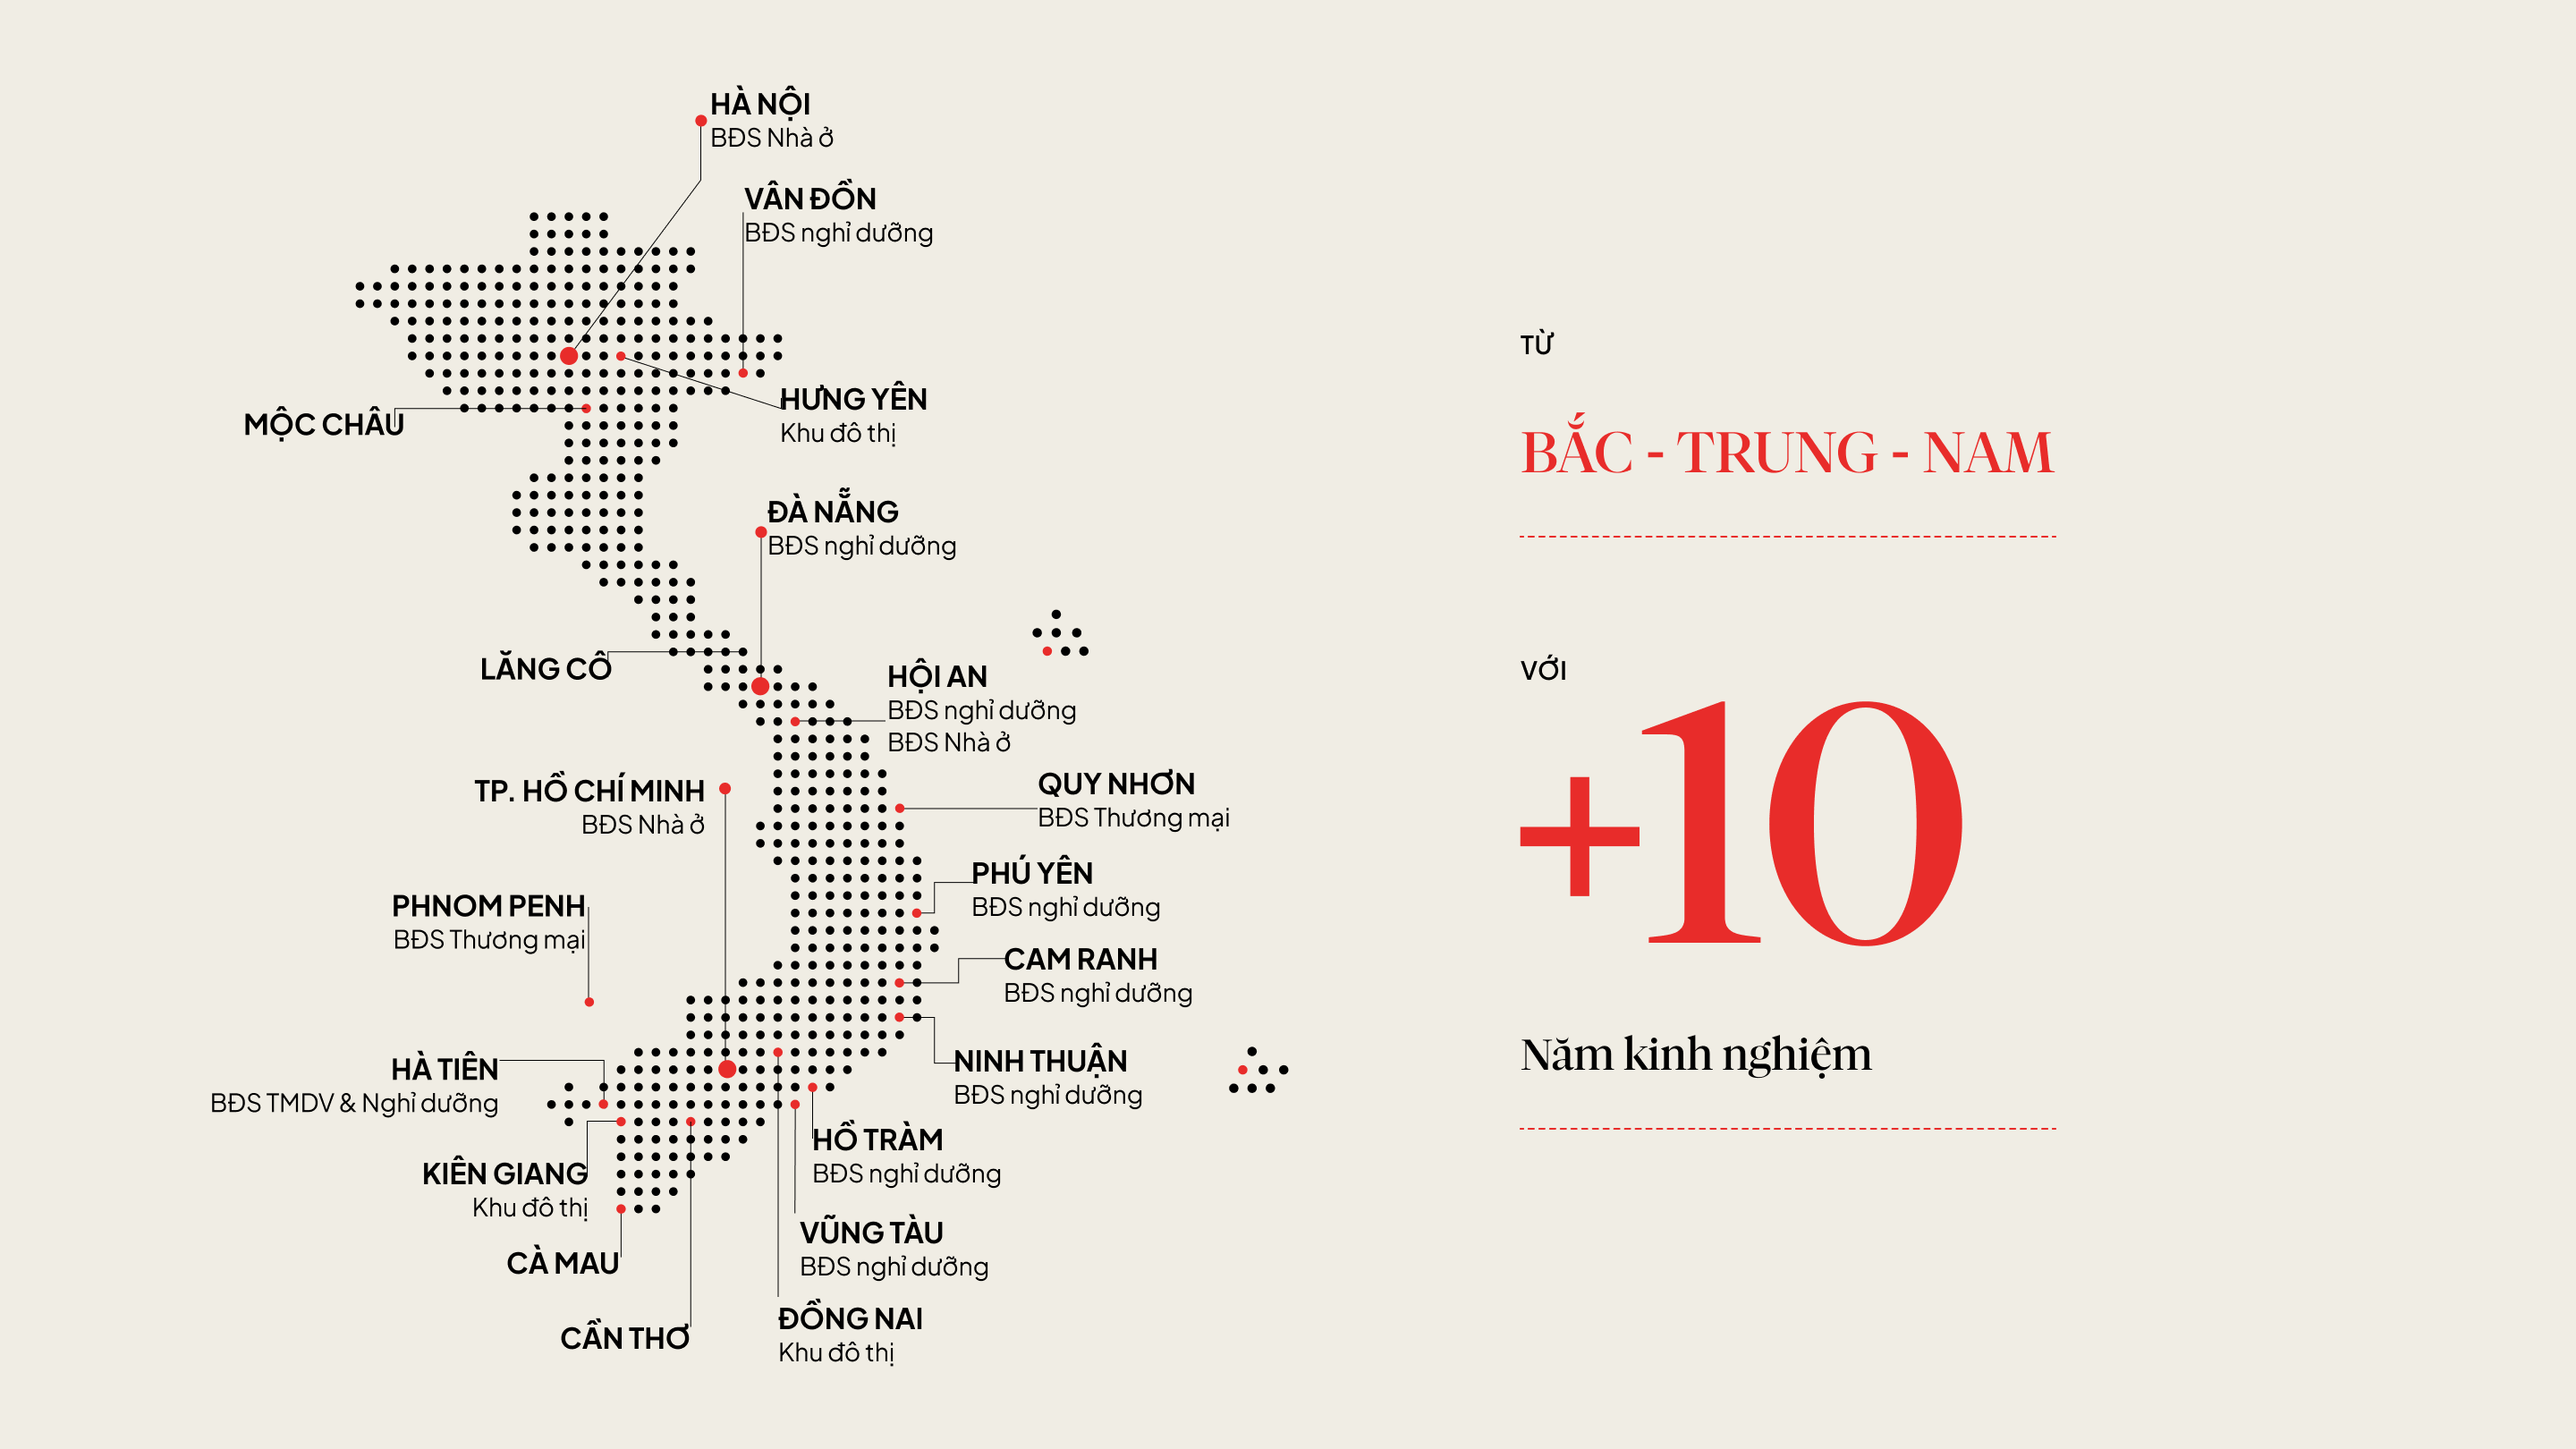
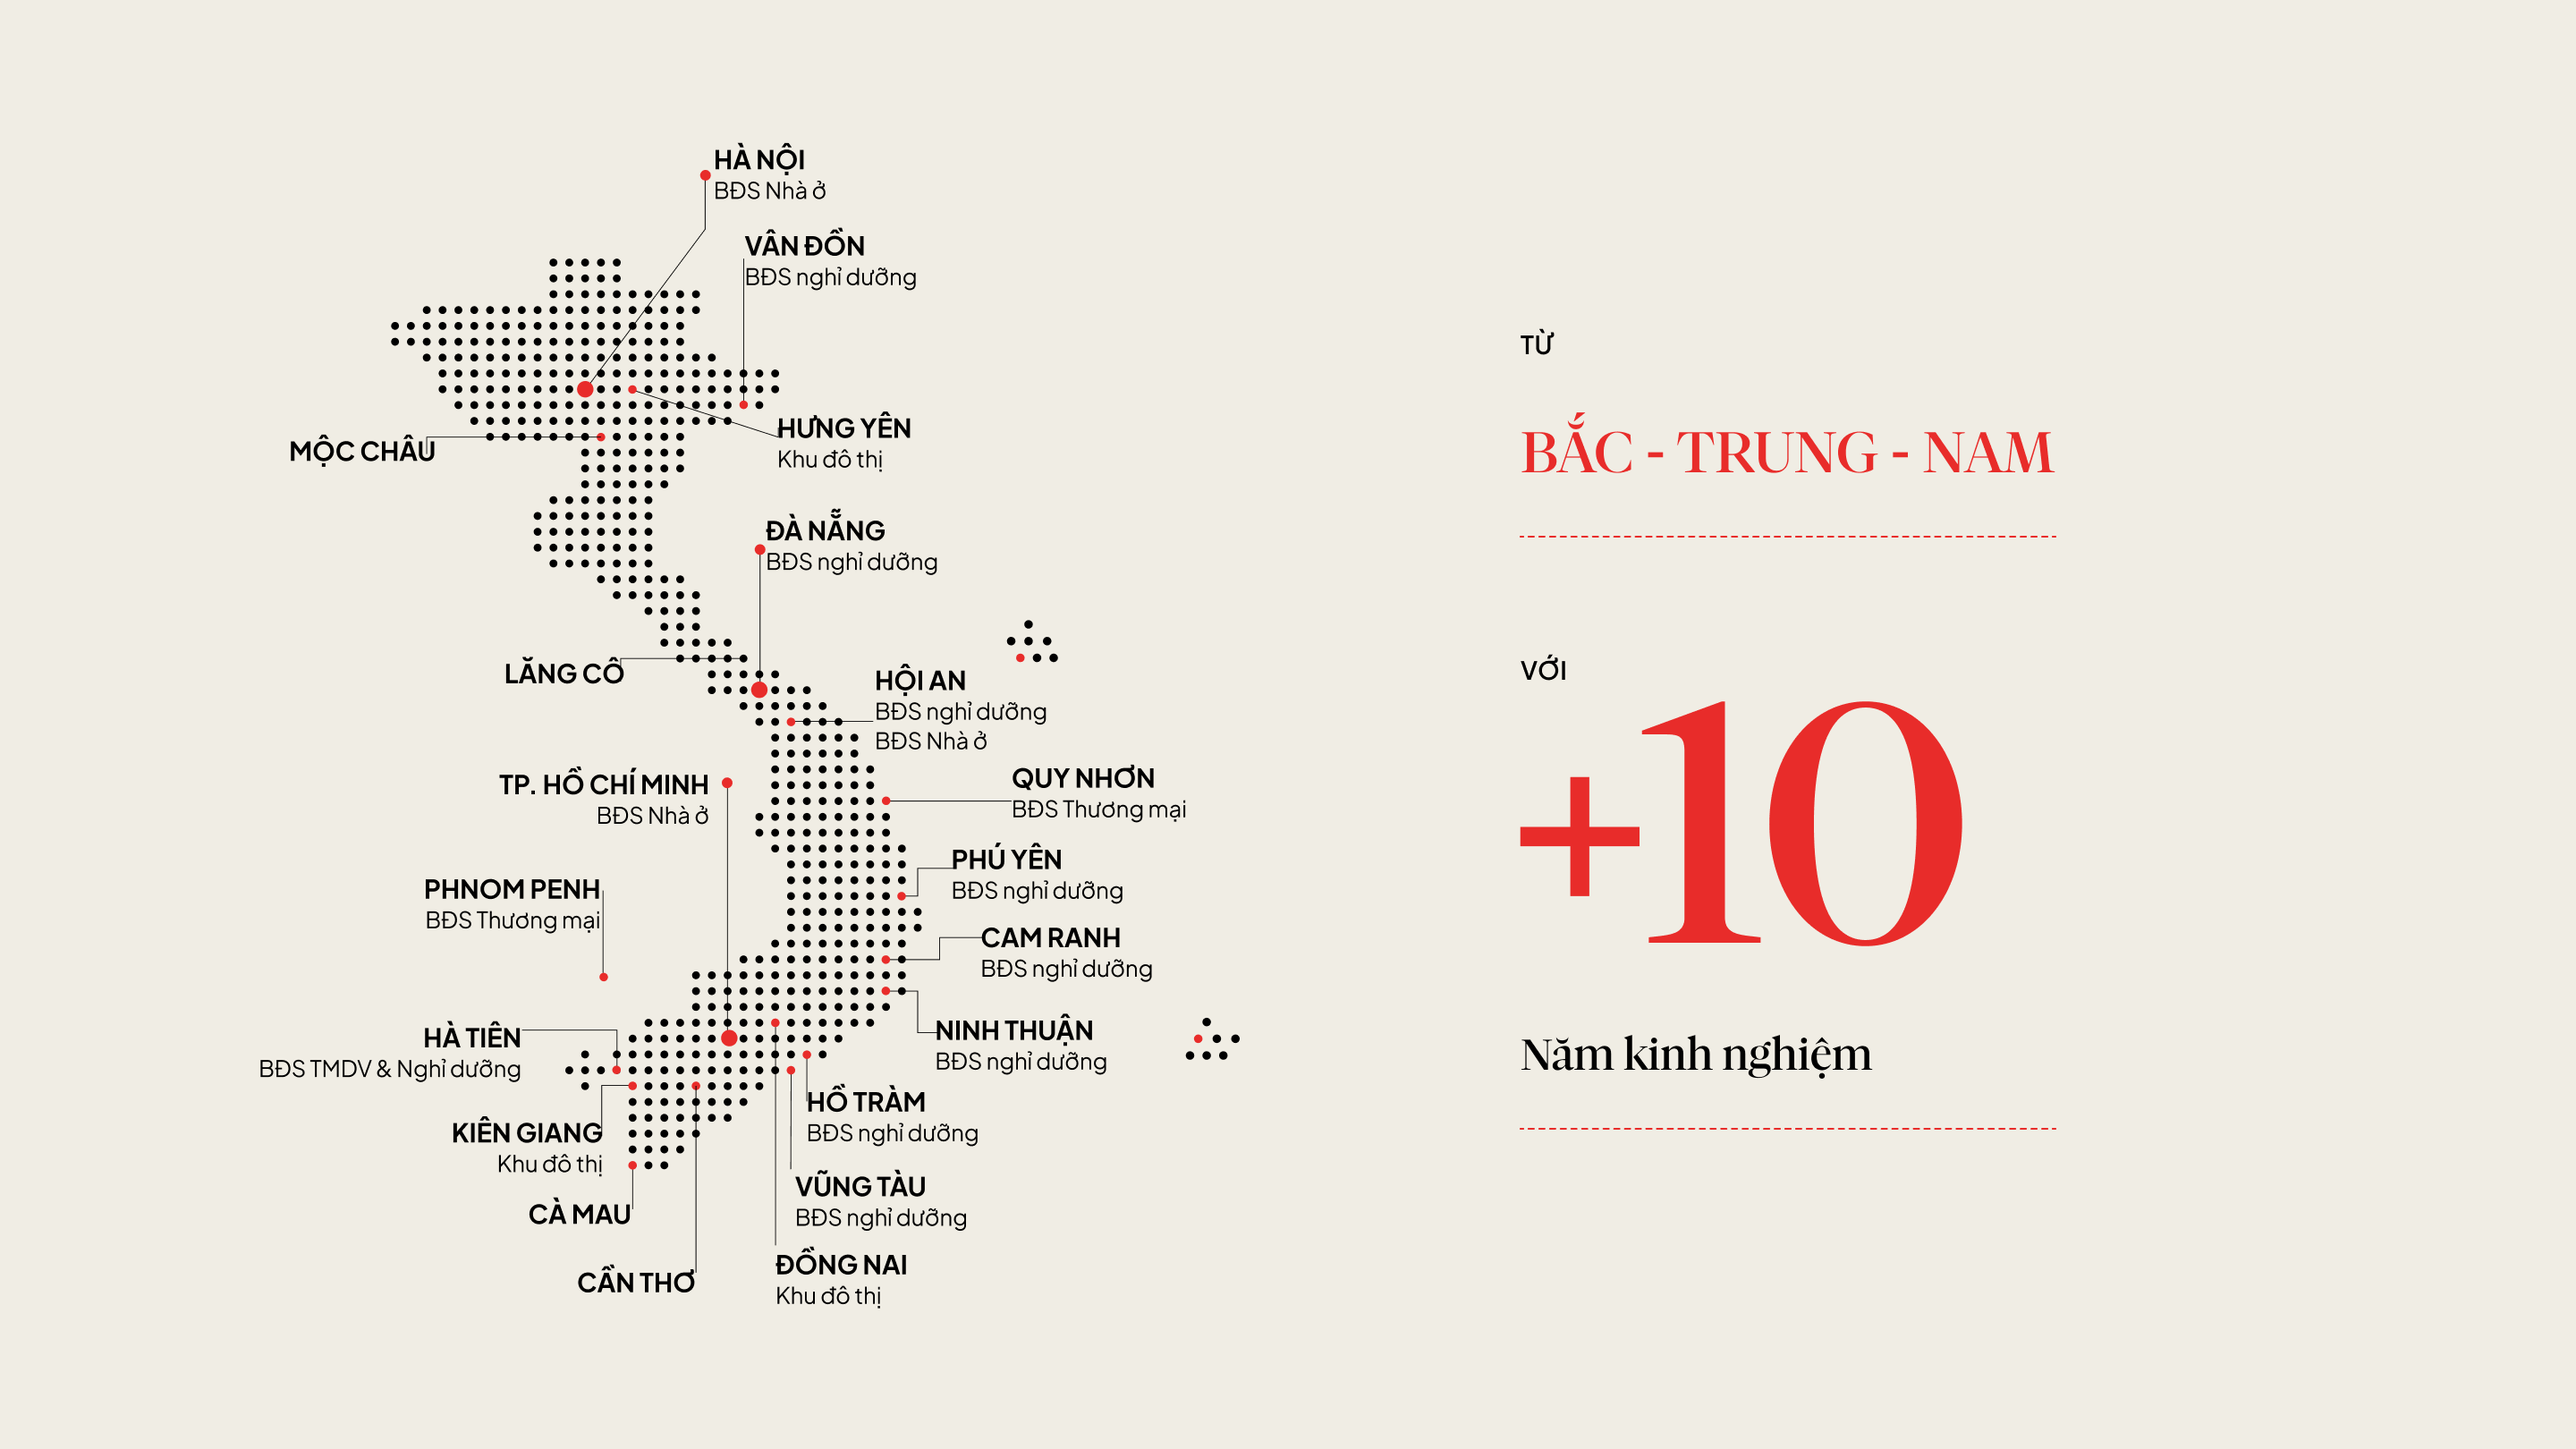
update map

Changed region(s): [[0.0938, 0.0617, 0.4688, 0.9568], [0.1562, 0.5864, 0.25, 0.6481], [0.4688, 0.7099, 0.5, 0.7407]]

diff --git a/assets/styles/style.css b/assets/styles/style.css
@@ -663,6 +663,20 @@ section.section-projects .projects-ball {
   left: 40px;
   top: 180px;
 }
+section.section-projects .projects-ball canvas {
+  width: 100%;
+  height: 100%;
+  object-fit: cover;
+}
+section.section-projects .projects-ball::after {
+  position: absolute;
+  width: 100%;
+  height: 100%;
+  top: 0;
+  left: 0;
+  backdrop-filter: blur(30px);
+  background-color: rgba(255, 255, 255, 0.2);
+}
 section.section-projects .projects-ball:hover .ball-container span {
   border-radius: 31% 45% 74% 35%/38% 56% 51% 87%;
   animation: animate2 6s linear infinite;
@@ -1105,7 +1119,7 @@ section.section-members .members-list__right .item-content-show {
 }
 .section-map__container {
   width: 100%;
-  height: 810px;
+  aspect-ratio: 1440/810;
 }
 @media (max-width: 767px) {
   .section-map__container {
@@ -1129,7 +1143,7 @@ section.section-members .members-list__right .item-content-show {
 }
 .gallery__contents {
   padding-left: 127px;
-  padding-right: 95px;
+  padding-right: 150px;
   width: 100%;
 }
 @media (max-width: 767px) {
@@ -1242,6 +1256,8 @@ section.section-quote {
 section.section-quote .quote-wrapper {
   padding: 150px 0;
   text-align: center;
+  max-width: 900px;
+  margin: 0 auto;
 }
 section.section-quote .text {
   font-family: var(--font-heading);

diff --git a/index.html b/index.html
@@ -836,7 +836,7 @@
       <section class="section-quote">
         <div class="container-fluid p-0">
           <div class="row g-0">
-            <div class="col-lg-6 offset-lg-3">
+            <div class="col-lg-8 offset-lg-2">
               <div class="quote-wrapper">
                 <div class="text data-fade-in">
                   <span class="h2-font"

diff --git a/assets/sass/_sectionMap.scss b/assets/sass/_sectionMap.scss
@@ -2,7 +2,8 @@
   position: relative;
   &__container {
     width: 100%;
-    height: 810px;
+    // height: 810px;
+    aspect-ratio: 1440 / 810;
     @media (max-width: 767px) {
       height: auto;
     }

diff --git a/assets/sass/_gallery.scss b/assets/sass/_gallery.scss
@@ -7,7 +7,7 @@
   }
   &__contents {
     padding-left: 127px;
-    padding-right: 95px;
+    padding-right: 150px;
     width: 100%;
     @media (max-width: 767px) {
       padding: 0;

diff --git a/assets/sass/_sectionQuote.scss b/assets/sass/_sectionQuote.scss
@@ -4,6 +4,8 @@ section.section-quote {
   .quote-wrapper {
     padding: 150px 0;
     text-align: center;
+    max-width: 900px;
+    margin: 0 auto;
   }
 
   .text {
